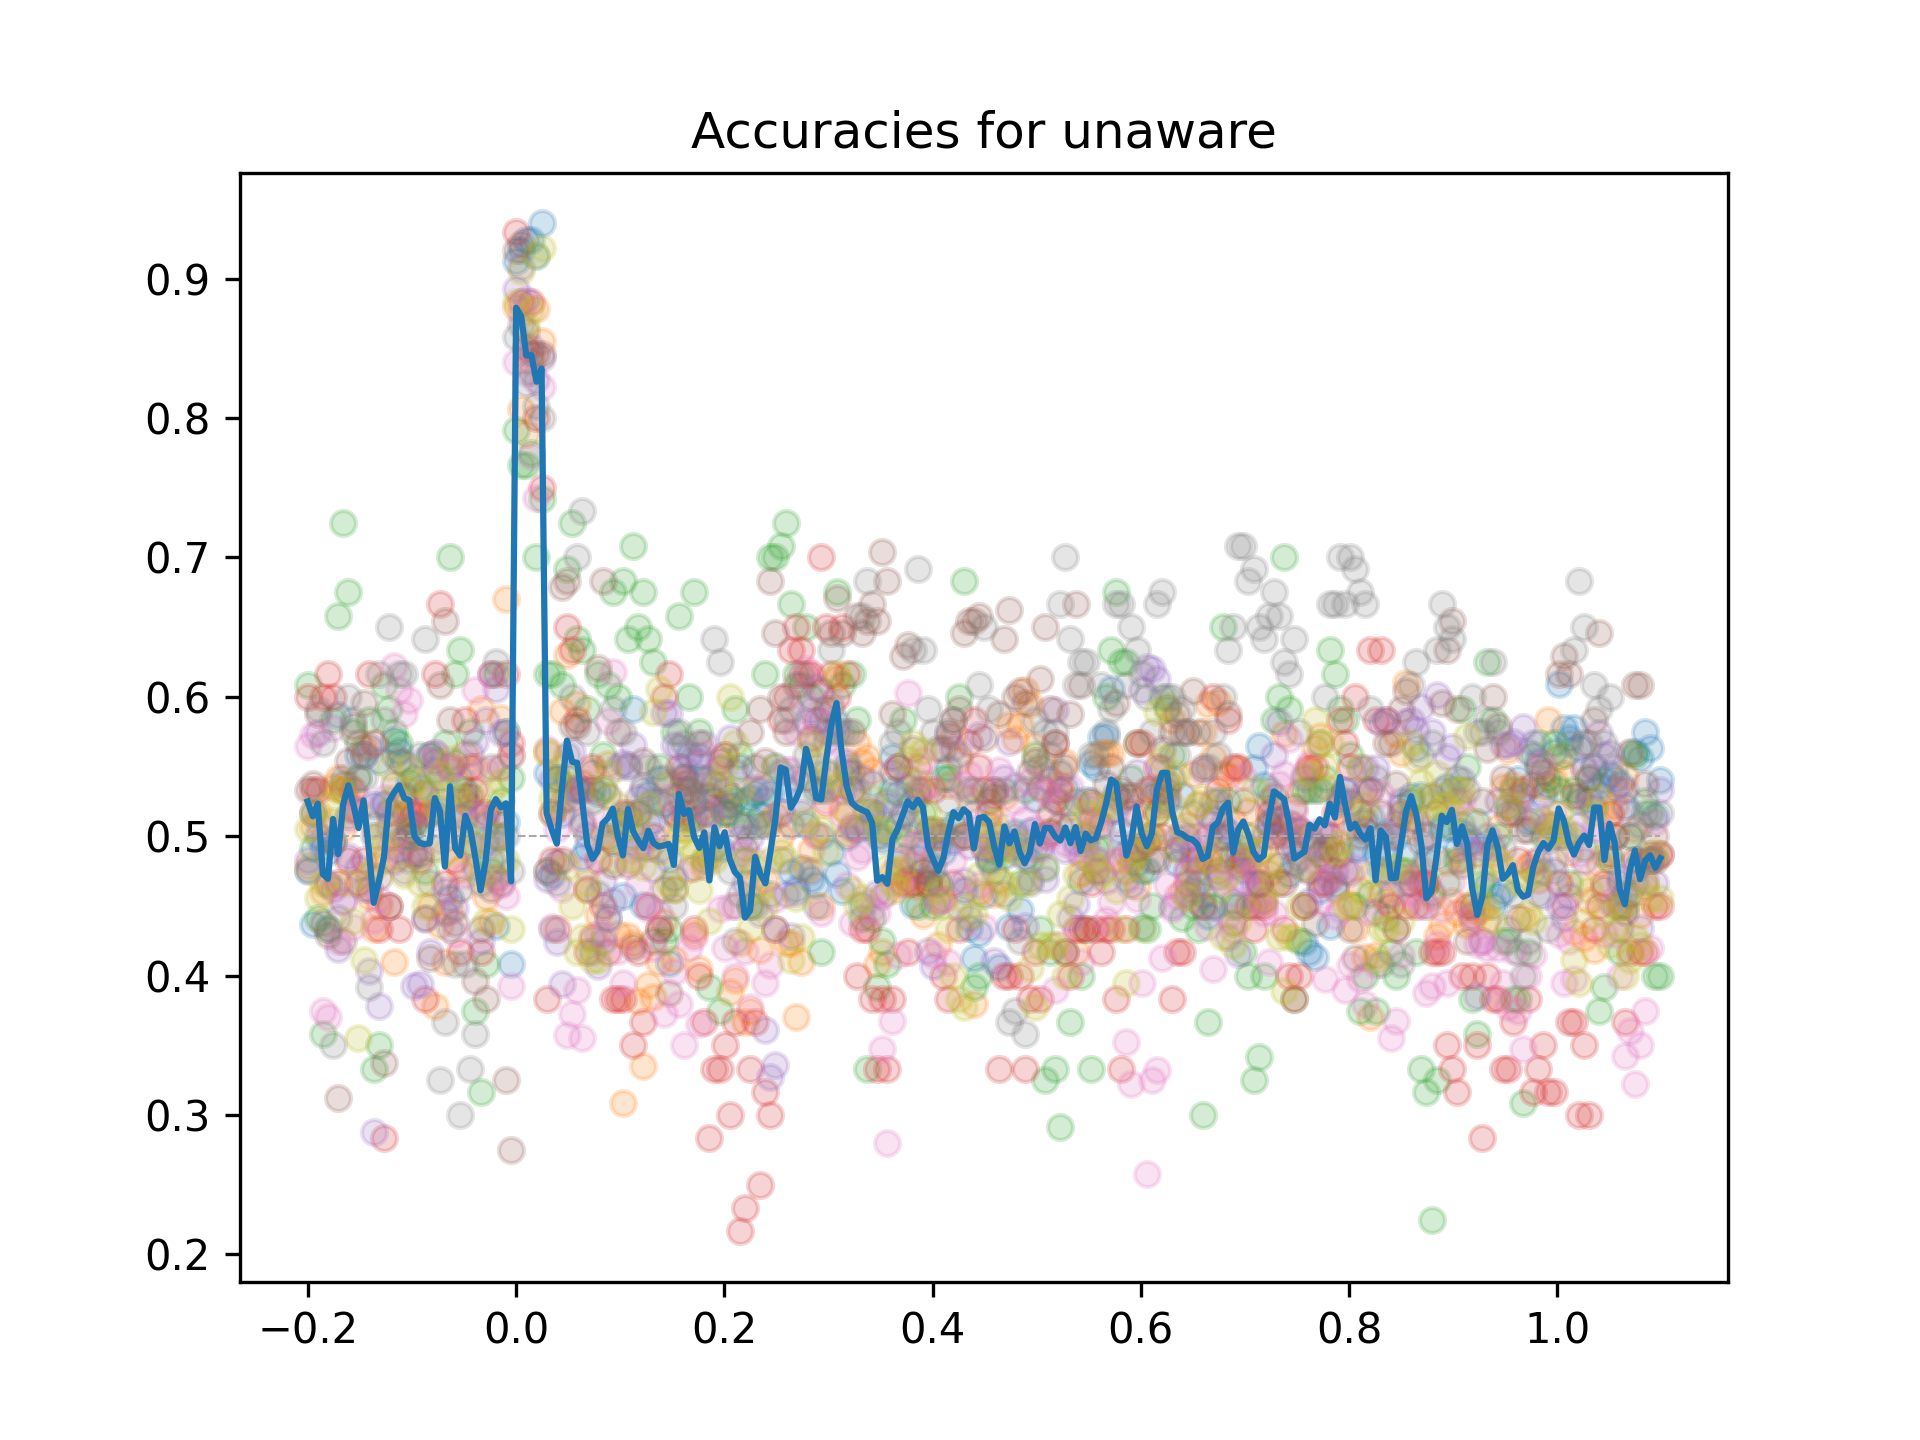
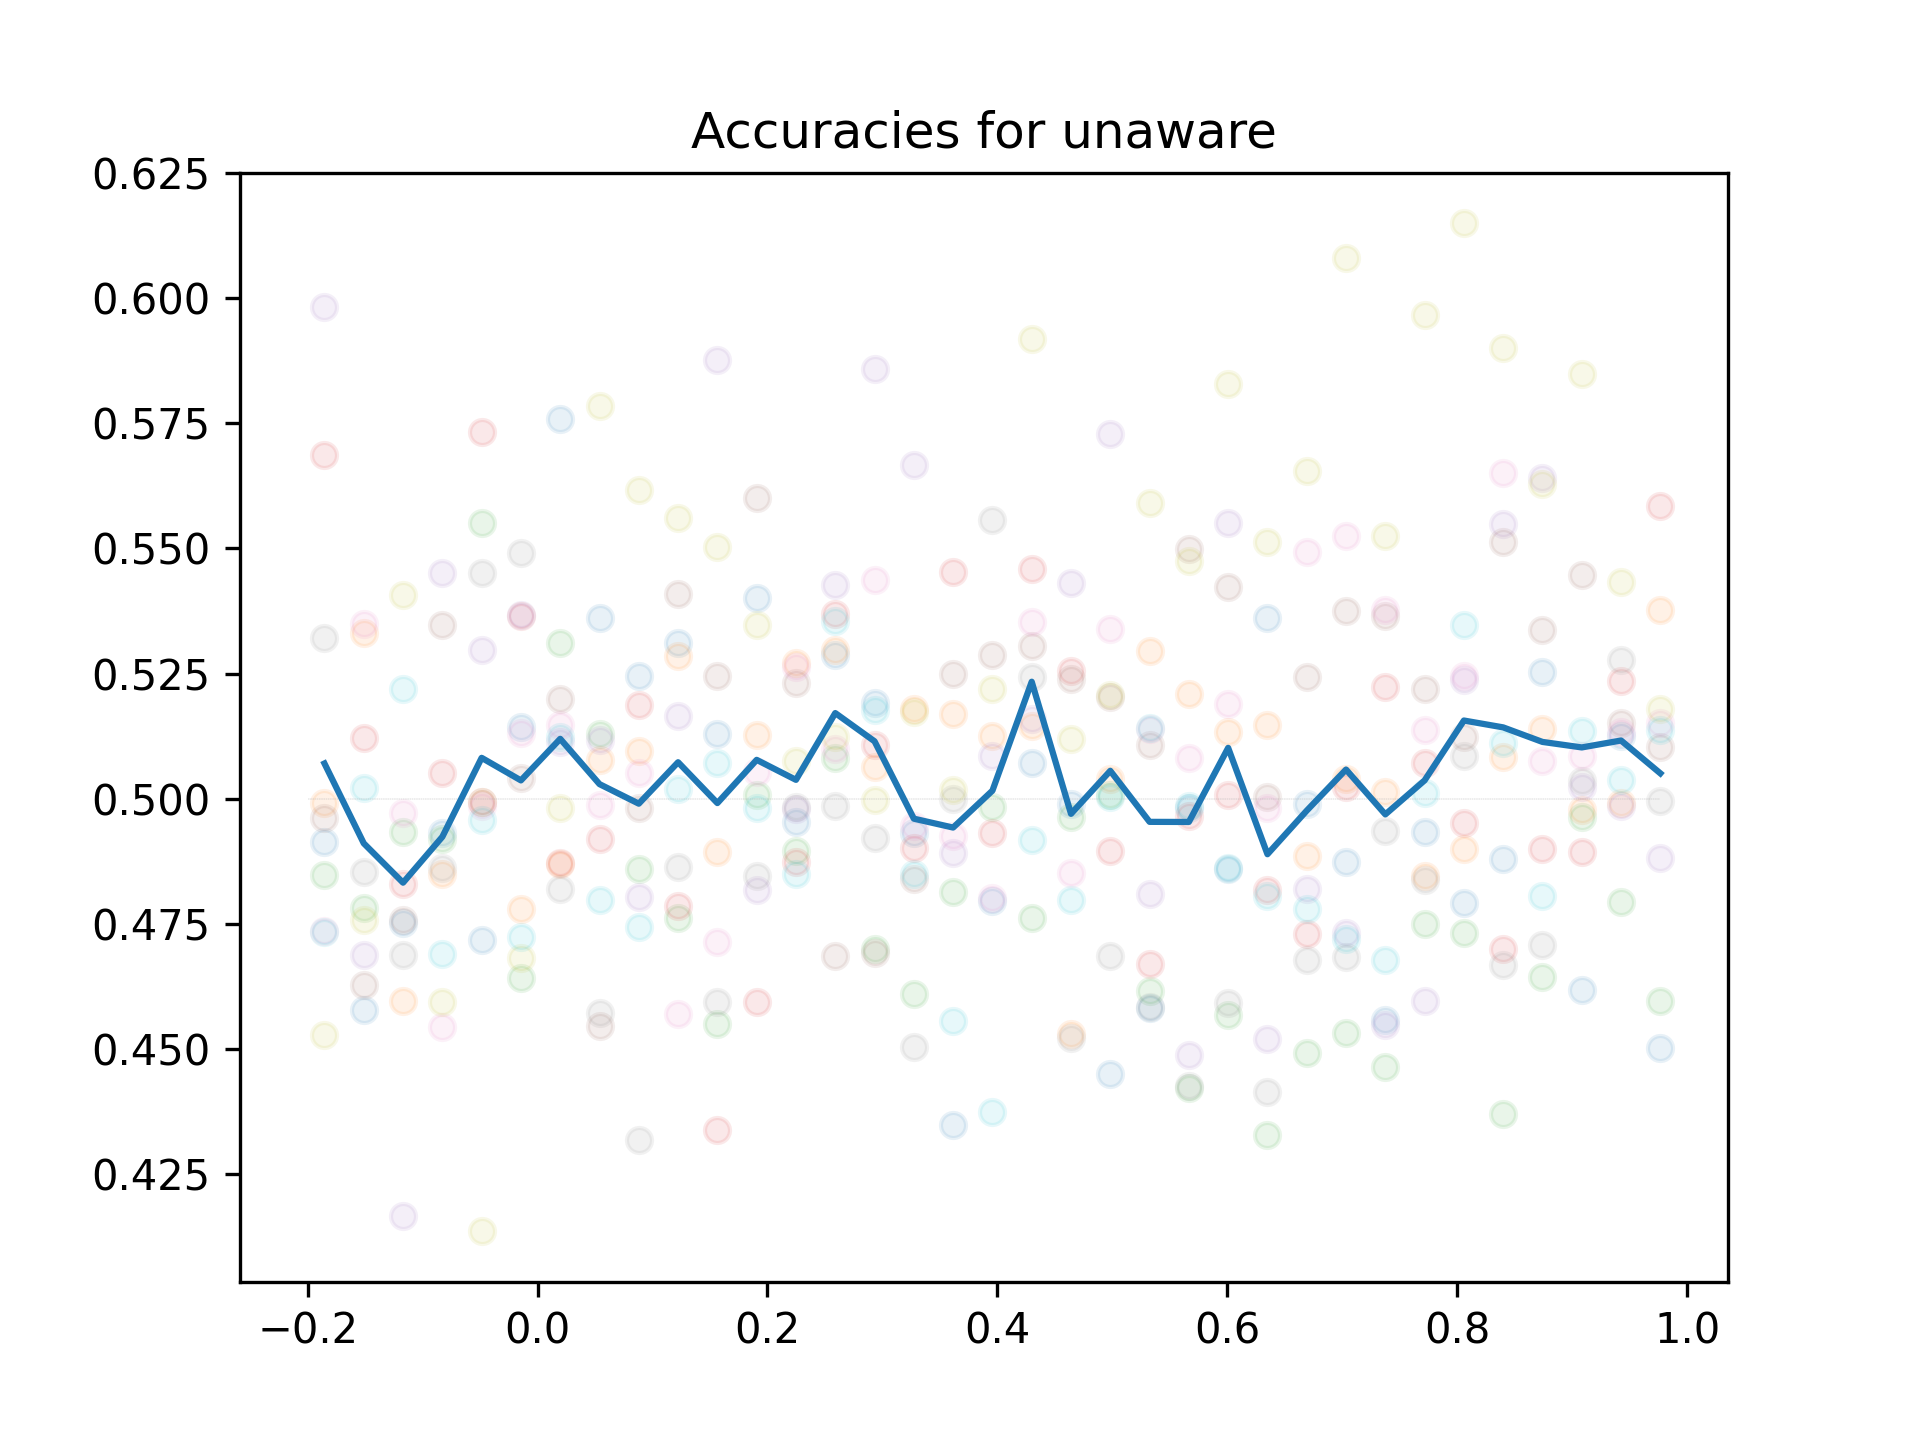
updated classification

diff --git a/rsa_analyses/category_classification.py b/rsa_analyses/category_classification.py
@@ -11,12 +11,13 @@ import sklearn
 
 from tqdm import tqdm
 from matplotlib import pyplot
+from scipy import stats
 
 from io_utils import EvokedResponses, ComputationalModels
 from searchlight import SearchlightClusters, run_searchlight
 from rsa_utils import restrict_evoked_responses, prepare_folder
 
-def run_classification(args, s, evoked_responses, all_time_points):
+def run_classification(args, s, evoked_responses, t_points):
 
     categories = ComputationalModels().categories
     
@@ -37,39 +38,64 @@ def run_classification(args, s, evoked_responses, all_time_points):
                 all_data[categories[k]].append(numpy.array(vec))
         ### Checking that there is enough data to carry out the evaluation
         if len(all_data.keys()) == 2 and min([len(v) for k, v in all_data.items()]) > 20:
+
             max_data = min([len(v) for k,v in all_data.items()])
-            shuffled_data = {k : random.sample(v, k=max_data) for k, v in all_data.items()}
-            indices = [i for i in range(max_data)]
-            test_indices = [indices[i::10] for i in range(10)]
+            percentage = int(max_data*0.8)
 
-            scores = list()
+            train_indices = [i for i in range(max_data) if i<=percentage]
+            #test_indices = [indices[i::10] for i in range(10)]
+            test_indices = [i for i in range(max_data) if i>percentage]
 
-            for t in tqdm(range(len(all_time_points))):
+            ### Averaging 7 time points so as to reduce computation time
+            compressed_data = dict()
 
-                t_scores = list()
+            for k, v in all_data.items():
+                vec_list = list()
+                for vec in v:
+                    new_vec = numpy.array([numpy.average(vec[:, i:i+7], axis=1) for i in t_points])
+                    new_vec = numpy.transpose(new_vec)
+                    assert new_vec.shape == (vec.shape[0], len(t_points))
+                    vec_list.append(new_vec)
+                compressed_data[k] = vec_list
+            
+            all_iterations = list()
+            ### Shuffling and testing 300 times
+            for i in tqdm(range(300)):
 
-                for test_list in test_indices:
+                shuffled_data = {k : random.sample(v, k=max_data) for k, v in compressed_data.items()}
 
-                    train_samples = numpy.array([v_list[i] for cat, v_list in shuffled_data.items() for i in range(max_data) if i not in test_list])
-                    train_labels = numpy.array([cat for cat, v_list in shuffled_data.items() for i in range(max_data) if i not in test_list])
+                train_samples = numpy.array([v_list[i] for cat, v_list in shuffled_data.items() for i in train_indices])
+                train_labels = numpy.array([cat for cat, v_list in shuffled_data.items() for i in train_indices])
 
-                    test_samples = numpy.array([v_list[i] for cat, v_list in shuffled_data.items() for i in test_list])
-                    test_labels = numpy.array([cat for cat, v_list in shuffled_data.items() for i in test_list])
+                test_samples = numpy.array([v_list[i] for cat, v_list in shuffled_data.items() for i in test_indices])
+                test_labels = numpy.array([cat for cat, v_list in shuffled_data.items() for i in test_indices])
+
+                iteration_scores = list()
+
+                #for t in tqdm(range(len(all_time_points))):
+                for t in range(len(t_points)):
               
                     svm_model = sklearn.svm.SVC().fit(train_samples[:, :, t], train_labels)
                     score = svm_model.score(test_samples[:, :, t], test_labels)
-                    t_scores.append(score)
-                scores.append(numpy.nanmean(t_scores))
+                    iteration_scores.append(score)
+
+                all_iterations.append(iteration_scores)
+
+            scores = numpy.average(numpy.array(all_iterations), axis=0)
+            print(scores.shape)
+            assert scores.shape[0] == len(t_points)
 
             results[condition].append(scores)    
 
     return results
 
-
 parser = argparse.ArgumentParser()
 parser.add_argument('--analysis', default='both_worlds', choices=['objective_accuracy', 'subjective_judgments', 'both_worlds'], help='Indicates which pairwise similarities to compare, whether by considering objective accuracy or subjective judgments')
 parser.add_argument('--word_selection', default='targets_only', choices=['all_words', 'targets_only'], help='Indicates whether to use for the analyses only the targets or all the words')
+parser.add_argument('--searchlight', action='store_true', default=False, help='Indicates whether to run a searchlight analysis or not')
 args = parser.parse_args()
+
+numpy.seterr(all='raise')
 
 if __name__ == '__main__':
 
@@ -77,26 +103,55 @@ if __name__ == '__main__':
     os.makedirs(folder, exist_ok=True)
 
     full_results = collections.defaultdict(list)
+    #times = [v for k, v in all_time_points.items()]
+
     for s in range(2, 17): 
 
         evoked_responses = EvokedResponses(s)
         all_time_points = evoked_responses.time_points
-        sub_results = run_classification(args, s, evoked_responses, all_time_points)
+        t_points = [t for t in range(0, len(all_time_points), 7) if t+3 in all_time_points.keys()]
+        sub_results = run_classification(args, s, evoked_responses, t_points)
 
         ### Adding to the final dictionary
         for k, v in sub_results.items():
             full_results[k].append(v)
 
+    times = [all_time_points[i+3] for i in t_points]
+
+    ### Computing p-values
+    p_values = dict()
+    for k, v in full_results.items():
+        k_list = list()
+        for t in range(len(times)):
+            p_value = stats.ttest_1samp([vec[0][t] for vec in v], popmean=.5, alternative='greater')[1]
+            k_list.append(p_value)
+        corrected_ps = [i for i, v in enumerate(mne.stats.fdr_correction(k_list)[0]) if v==True]
+        
+        p_values[k] = corrected_ps
+
     ### Plotting results
 
-    times = [v for k, v in all_time_points.items()]
     for k, v in full_results.items():
         fig, ax = pyplot.subplots()
         y = numpy.nanmean([vec[0] for vec in v], axis=0)
+
+        significant_ps = p_values[k]
+        significant_xs = list()
+        significant_ys = list()
+        for i in significant_ps:
+            significant_xs.append(times[i])
+            significant_ys.append(y[i])
+        if len(significant_xs) >= 1:
+            ax.scatter(x=significant_xs, y=significant_ys, edgecolors='black', color='white', linewidths=1.)
+
         for vec in v:
             #ax.plot(vec[0])
-            ax.scatter(x=times, y=vec[0], alpha=0.2)
+            ax.scatter(x=times, y=vec[0], alpha=0.1)
         ax.plot(times, y)
-        ax.hlines(y=0.5, xmin=times[0], xmax=times[-1], linestyles='dashed', linewidths=.5, colors='darkgray')
+        ax.hlines(y=0.5, xmin=all_time_points[0], xmax=times[-1], linestyles='dashed', linewidths=.1, colors='darkgray')
         ax.set_title('Accuracies for {}'.format(k))
         pyplot.savefig(os.path.join(folder, '{}.png'.format(k)), dpi=300) 
+        pyplot.clf()
+
+
+    import pdb; pdb.set_trace()

diff --git a/rsa_analyses/io_utils.py b/rsa_analyses/io_utils.py
@@ -271,9 +271,10 @@ class EvokedResponses:
                 time_points[i] = -0.2
             else:
                 current_time = time_points[i-1] + time_step
-                if current_time <= 1.1:
+                if current_time < 1. :
                     time_points[i] = current_time
                 else:
                     break
+        assert 0. not in [v for k, v in time_points.items()]
         return time_points
 
